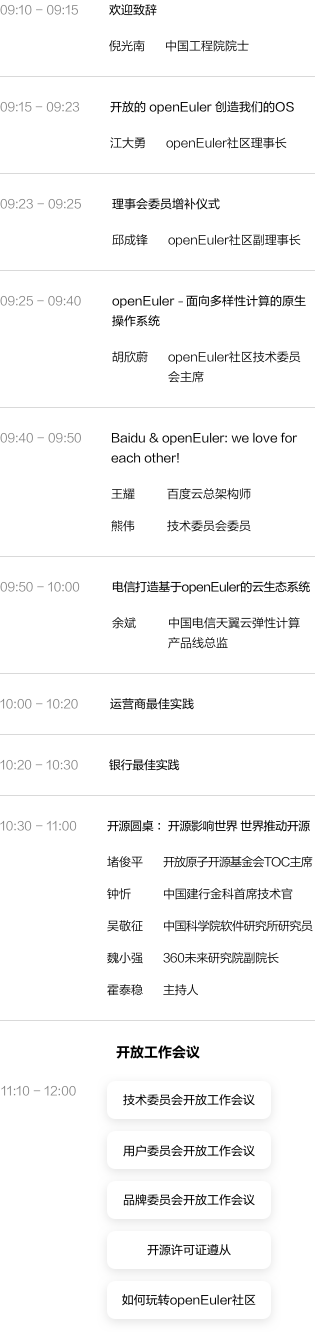
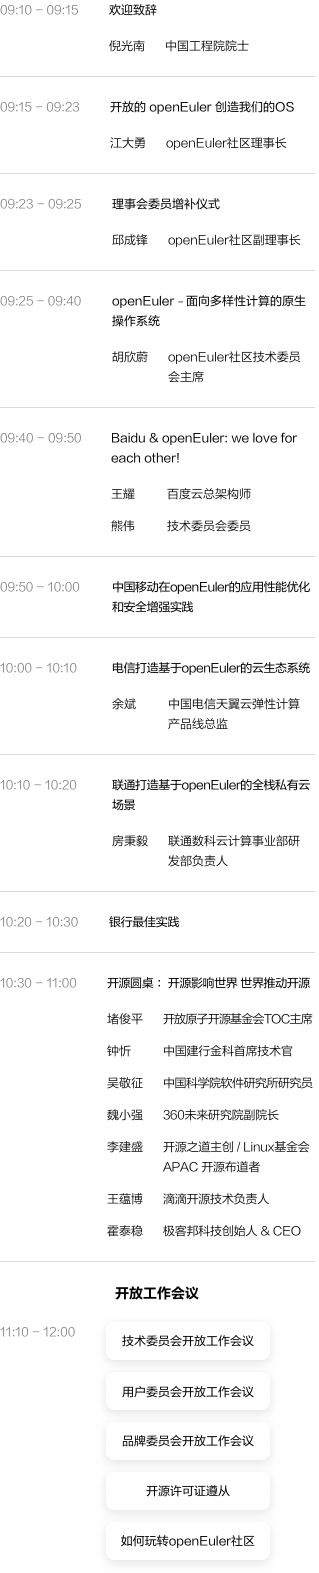
add new content to summit page and replace img and fix style
save

save

fix

diff --git a/web-ui/docs/.vuepress/components/summit/summit-devday.vue b/web-ui/docs/.vuepress/components/summit/summit-devday.vue
@@ -7,9 +7,25 @@
             <div class="title">峰会</div>
             <a href="https://e-campaign.huawei.com/m/mIzQFr" target="_blank"><img :src="i18n.interaction.DEVDAY_2021.H5_BANNER" alt="" /></a>
         </div>
+        <div class="summit-nav" v-show="isShowNav">
+            <div class="box-line">
+                <img class="gif" v-lazy="'/img/summit/home/nav.gif'" alt="" />
+                <img class="line" v-lazy="'/img/summit/home/line.png'" alt="" />
+            </div>
+            <div class="nav-text">
+                <ul>
+                    <li v-for="(item,index) in navList" :class="index === activeIndex?'active':''">
+                        <a :href="item.key">
+                            <div><div class="inside"></div></div>
+                            <div>{{ item.name }}</div>
+                        </a>
+                    </li>
+                </ul>
+            </div>
+        </div>
         <div class="text-wrapper">
             <p class="text">openEuler Developer Day 2021 是由 openEuler 社区发起，面向社区开发者的一场技术盛会。旨在推动 openEuler 社区在多样性计算、云原生全栈、全场景协同等技术发展方向的持续探索和创新。本次大会以开放工作会议以及小组讨论等形式，让开发者找到关注的技术小组、快速融入社区、围绕下一版本发布，热点技术方向，用户核心需求，展开面对面的头脑风暴。每一个开发者都是 openEuler 社区的一颗星，一滴水，最终点点滴滴汇聚成科技创新的星辰大海。</p>
-            <div class="title">
+            <div class="title" id="agenda">
                 <img v-lazy="'/img/summit/devday-2021/agenda/agenda-h5.png'" alt="" v-if="isShowH5" />
                 <img v-lazy="'/img/summit/devday-2021/agenda/agenda-web.png'" alt="" v-else />
             </div>
@@ -120,6 +136,26 @@ import carousel from './carousel.vue';
 export default {
     data() {
         return {
+            activeIndex: 0,
+            isShowNav: false,
+            navList: [
+                {
+                    key: '#agenda',
+                    name: '大会日程'
+                },
+                {
+                    key: '#lecturer',
+                    name: '演讲嘉宾'
+                },
+                {
+                    key: '#community',
+                    name: '社区天团'
+                },
+                {
+                    key: '#host-unit',
+                    name: '合作伙伴'
+                }
+            ],
             currentTime: 'forenoon',
             agenda_obj: {
                 TIME_LIST: ['13:30-13:40','13:40-14:10','14:10-14:30','14:30-14:50','14:50-15:10','15:10-15:30','15:30-15:50'],
@@ -434,9 +470,19 @@ export default {
                     POSITION: '中国电信虚拟化高级工程师'
                 },
                 {
+                    IMG: '/img/summit/devday-2021/lecturer/lijiansheng.png',
+                    NAME: '李建盛',
+                    POSITION: '开源之道主创 / Linux基金会 APAC 开源布道者 '
+                },
+                {
                     IMG: '/img/summit/devday-2021/lecturer/huotaiwen.png',
                     NAME: '霍泰稳',
                     POSITION: '极客邦科技创始人 & CEO'
+                },
+                {
+                    IMG: '/img/summit/devday-2021/lecturer/wangyunbo.png',
+                    NAME: '王蕴博',
+                    POSITION: '滴滴开源技术负责人'
                 },
                 {
                     IMG: '/img/summit/devday-2021/lecturer/mada.png',
@@ -758,20 +804,20 @@ export default {
             },
             foundationList: [
                 {
-                    IMG: '/img/summit/home/foundation/linux.png',
-                    LINK: 'https://www.linuxfoundation.org/'
+                    IMG: '/img/summit/home/foundation/yuanzi.png',
+                    LINK: 'https://www.openatom.org/#/'
                 },
                 {
                     IMG: '/img/summit/home/foundation/linaro.png',
                     LINK: 'https://www.linaro.org/'
                 },
                 {
-                    IMG: '/img/summit/home/foundation/open.png',
-                    LINK: 'https://openinfra.dev/'
+                    IMG: '/img/summit/home/foundation/linux.png',
+                    LINK: 'https://www.linuxfoundation.org/'
                 },
                 {
-                    IMG: '/img/summit/home/foundation/yuanzi.png',
-                    LINK: 'https://www.openatom.org/#/'
+                    IMG: '/img/summit/home/foundation/open.png',
+                    LINK: 'https://openinfra.dev/'
                 }
             ],
             mediaObj: {
@@ -781,7 +827,7 @@ export default {
         }
     },
     mounted() {
-        
+         window.addEventListener('scroll',this.scroTop);
     },
     methods: {
         go(url) {
@@ -795,6 +841,38 @@ export default {
         showAll() {
             this.flag = !this.flag;
         },
+        scroTop() {
+            let scrollTop = document.body.scrollTop || document.documentElement.scrollTop;
+            let value = this.ifAddValue();
+            if(scrollTop < 600) {
+                this.isShowNav = false;
+            }else {
+                this.isShowNav = true;
+            }
+            if(scrollTop > 650 && scrollTop < 1900 + value) {
+                this.activeIndex = 0;
+            }else if(scrollTop > 1920 + value && scrollTop < 4600 + value) {
+                this.activeIndex = 1;
+            }else if(scrollTop > 4700 + value && scrollTop < 5800 + value) {
+                this.activeIndex = 2;
+            }else if(scrollTop > 5800 + value) {
+                this.activeIndex = 3;
+            }else {
+                return false;
+            }
+        },
+        ifAddValue() {
+            //上午、下午、晚上日程盒子的高度不一致，计算误差值使得滚动时能够准确
+            let value = 0;
+            if(this.currentTime === 'afternoon') {
+                value = 800;
+            }else if(this.currentTime === 'evening') {
+                value = -700;
+            }else {
+                return 0;
+            }
+            return value;
+        }
     },
     components: {
         carousel
@@ -822,6 +900,91 @@ export default {
         padding: 0 10px;
         width: 100%;
     }
+    //瞄点定位消除误差
+    #agenda::before,#lecturer::before,#community::before,#host-unit::before {
+        content: '';
+        display: block;
+        height: 60px;
+        margin-top: -60px;
+        visibility: hidden;
+    }
+    .summit-nav {
+        position: fixed;
+        cursor: pointer;
+        top: 170px;
+        right: 70px;
+        z-index: 1000;
+        display: block;
+        
+        .box-line {
+            width: 70px;
+            margin-left: -26px;
+            .gif {
+                width: 70px;
+                height: 70px;
+                margin: 0 auto -30px auto;
+                position: relative;
+                z-index: 20;
+            }
+            .line {
+                display: block;
+                width: 2px;
+                height: 441px;
+                margin: 0 auto;
+            }
+        }
+        .nav-text {
+            position: relative;
+            margin-top: -375px;
+            ul li a>div {
+                display: inline-block;
+                &:first-of-type {
+                    margin-right: 17px;
+                    border-radius: 50%;
+                    width: 18px;
+                    position: relative;
+                    background: #FFFFFF;
+                    height: 18px;
+                    border: 1px solid #979797;
+                    div {
+                        width: 14px;
+                        height: 14px;
+                        border-radius: 50%;
+                        background: #D8D8D8;
+                        position: absolute;
+                        top: 50%;
+                        left: 50%;
+                        margin-left: -7px;
+                        margin-top: -7px;
+                    }
+                }
+                &:last-of-type {
+                    font-size: 20px;
+                    color: #000000;
+                    line-height: 30px;
+                }
+            }
+            ul li {
+                margin-bottom: 30px;
+                display: flex;
+                align-items: center;
+            }
+            ul .active {
+                & a>div {
+                    color: #002FA7 !important;
+                }
+                .inside {
+                    background: #002FA7;
+                }
+            }
+            ul li>a{
+                text-decoration: none;
+            }
+        }
+        @media screen and (max-width: 1120px) {
+            display: none;
+        }
+    }
     .img-list {
         display: flex;
         flex-wrap: wrap;
@@ -834,7 +997,7 @@ export default {
             display: block;
             margin: 0 40px 40px 0;
             cursor: pointer;
-            &:nth-last-of-type(3n) {
+            &:nth-of-type(3n) {
                 margin-right: 0;
             }
         }
@@ -845,7 +1008,7 @@ export default {
                 width: 140px;
                 height: 40px;
                 margin: 20px auto 0 auto;
-                &:nth-last-of-type(3n) {
+                &:nth-of-type(3n) {
                     margin-right: auto;
                 }
                 &:first-of-type {

diff --git a/web-ui/docs/.vuepress/components/summit/carousel.vue b/web-ui/docs/.vuepress/components/summit/carousel.vue
@@ -393,7 +393,7 @@ export default {
             .detail {
                 font-size: 18px;
                 width: 938px;
-                
+                align-items: start;
                 font-weight: 400;
                 color: rgba(0, 0, 0, 0.85);
                 line-height: 30px;
